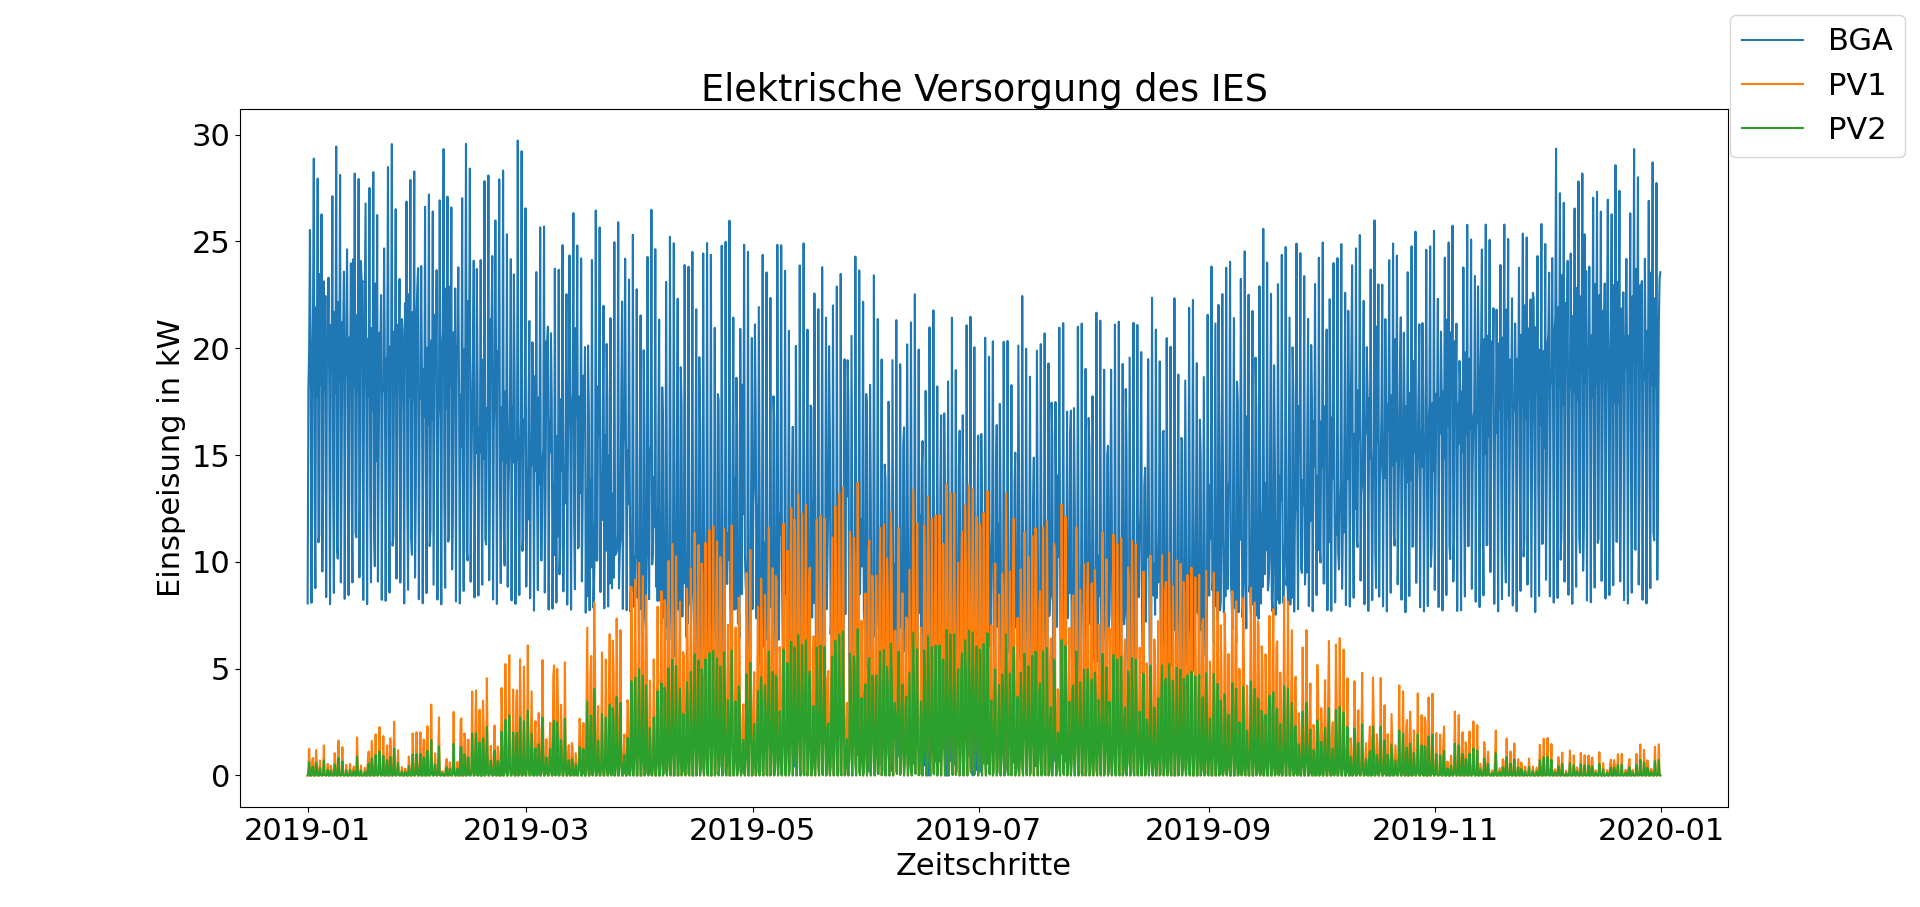
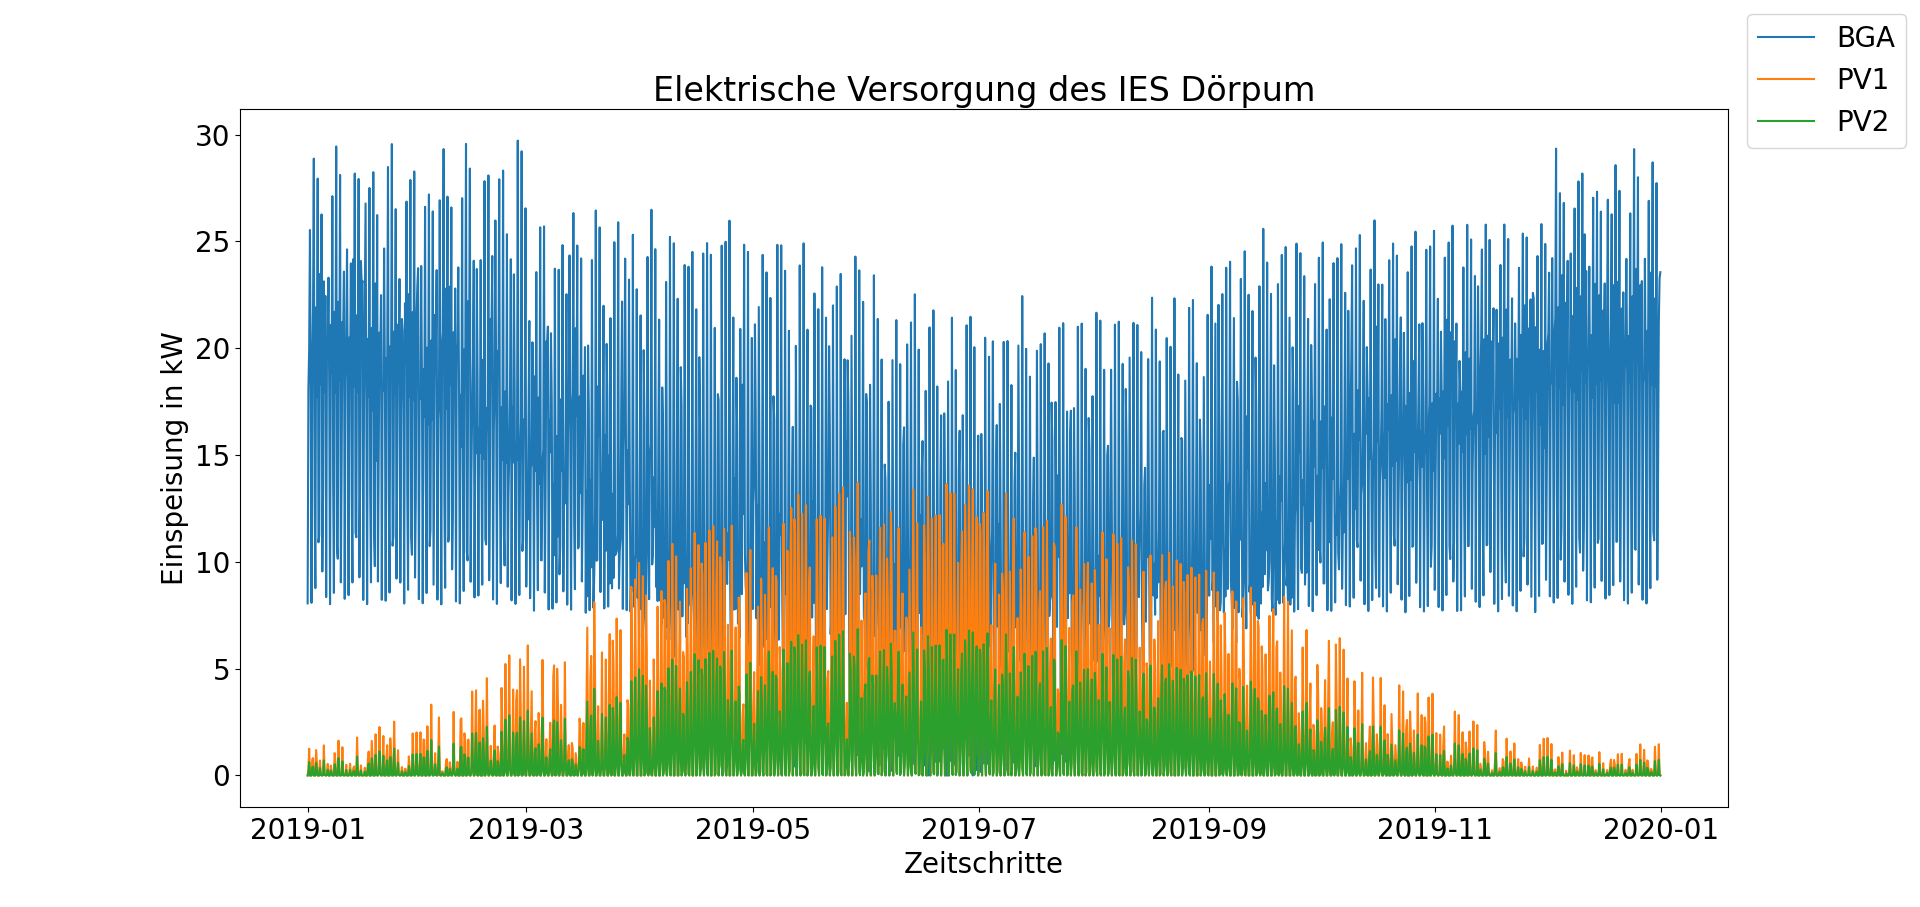
Add result plot to read-me

diff --git a/opties/plots.py b/opties/plots.py
@@ -164,7 +164,7 @@ def el_gen_ies(network, snapshots=[0, 8759]):
         label=pv.index,
     )
 
-    ax.set_title("Elektrische Versorgung des IES")
+    ax.set_title("Elektrische Versorgung des IES Dörpum")
     fig.legend(loc="upper right")
 
 
